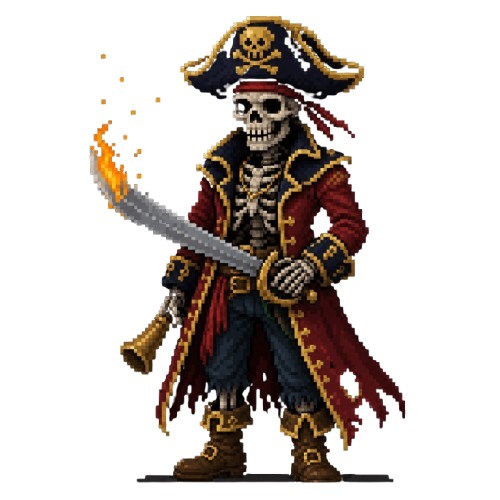
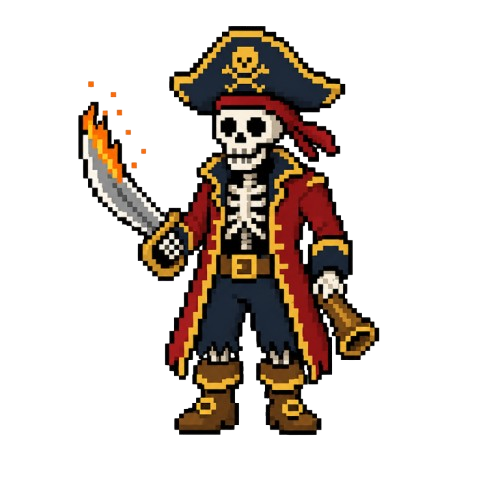
level updates

diff --git a/SeaBound/lvl3.py b/SeaBound/lvl3.py
@@ -64,6 +64,11 @@ HARPOON_SPEED = 10
 # How many HP the boss has
 BOSS_MAX_HP = 8
 
+# How many frames between each pirate walk animation frame swap.
+# 12 frames at 60fps = roughly 5 steps per second.
+# Lower this number to make the animation faster, raise it to slow it down.
+PIRATE_ANIM_SPEED = 12
+
 # Set to True to see collision boxes drawn on screen (useful for testing)
 # Set to False for normal play
 SHOW_HITBOXES = False
@@ -191,10 +196,25 @@ sword_swing_left = []
 for frame in sword_swing_right:
     sword_swing_left.append(pygame.transform.flip(frame, True, False))
 
-# Pirate
-pirate_img      = pygame.image.load(join(IMAGES_DIR, "pirate.png")).convert_alpha()
-pirate_img      = pygame.transform.scale(pirate_img, (150, 120))
-pirate_img_left = pygame.transform.flip(pirate_img, True, False)   # pre-flipped for left-side pirates
+# Pirate — two walking frames for the animation
+# Frame 0 = skeleton.png     (default / standing pose)
+# Frame 1 = skeletonwalking 1.png  (mid-stride pose)
+# Both are scaled to the same size as the original pirate sprite (150x120)
+# so nothing else in the game changes.
+pirate_walk_frame0 = pygame.image.load(join(IMAGES_DIR, "skeleton.png")).convert_alpha()
+pirate_walk_frame0 = pygame.transform.scale(pirate_walk_frame0, (150, 120))
+
+pirate_walk_frame1 = pygame.image.load(join(IMAGES_DIR, "skeletonwalking 1.png")).convert_alpha()
+pirate_walk_frame1 = pygame.transform.scale(pirate_walk_frame1, (150, 120))
+
+# Pre-flip both frames for left-side pirates (they face the other way)
+pirate_walk_frame0_left = pygame.transform.flip(pirate_walk_frame0, True, False)
+pirate_walk_frame1_left = pygame.transform.flip(pirate_walk_frame1, True, False)
+
+# Keep pirate_img and pirate_img_left pointing at frame 0 so any other
+# code that still references them continues to work unchanged.
+pirate_img      = pirate_walk_frame0
+pirate_img_left = pirate_walk_frame0_left
 
 # Heart collectable
 heart_img = pygame.image.load(join(IMAGES_DIR, "heart bubble.png")).convert_alpha()
@@ -315,9 +335,12 @@ def load_sound(filename):
 sound_footstep    = load_sound("footstep.wav")      # plays while Jerry walks
 sound_sword_swing = load_sound("sword_swing.wav")   # when SPACE is pressed
 sound_sword_hit   = load_sound("sword_hit.wav")     # sword hits a pirate/boss
-sound_shoot       = load_sound("shoot.wav")         # when X is pressed
 sound_bullet_hit  = load_sound("bullet_hit.wav")    # bullet hits an enemy
 sound_player_hit  = load_sound("player_hit.wav")    # Jerry takes damage
+
+# Harpoon / gun fired — loaded from the exact path provided
+# Uses load_sound() so the game keeps running even if the file is missing
+sound_shoot = load_sound("gun_shot.mp3")   # SeaBound/Audio/gun_shot.mp3
 
 # Pirate death sound
 _pirate_die_path  = join(AUDIO_DIR, "pirate die.ogg")
@@ -605,13 +628,12 @@ class Player:
 
 class Pirate:
 
-    def __init__(self, x, y, from_left=False):
+    def __init__(self, x, y, from_left=False, wave=1):
         self.x = x
         self.y = y
 
         self.width  = 150
         self.height = 120
-        self.speed  = PIRATE_SPEED
 
         # from_left = True  means this pirate came from the LEFT edge
         # from_left = False means it came from the RIGHT edge (original behaviour)
@@ -623,13 +645,66 @@ class Pirate:
         else:
             self.image = pirate_img        # faces LEFT  (toward screen centre)
 
+        # ---------------------------------------------------------
+        # HP SYSTEM
+        # ---------------------------------------------------------
+        # Wave 1: all pirates have 1 HP (one hit = dead).
+        # Wave 2+: some pirates are "tough" with 2 HP.
+        #   The chance of being tough increases each wave:
+        #     Wave 2: 30% tough
+        #     Wave 3: 50% tough
+        #     Wave 4+: 70% tough
+        # A tough pirate takes TWO hits to kill.
+        # ---------------------------------------------------------
+        if wave >= 2:
+            # Calculate chance of being tough based on wave number
+            tough_chance = min(0.30 + (wave - 2) * 0.20, 0.70)
+            self.is_tough = random.random() < tough_chance
+        else:
+            self.is_tough = False
+
+        self.hp = 2 if self.is_tough else 1
+
+        # ---------------------------------------------------------
+        # SPEED
+        # ---------------------------------------------------------
+        # Base speed is PIRATE_SPEED.
+        # Tough pirates are always slightly faster.
+        # Additionally, ~30% of wave 2+ pirates get a random speed
+        # boost regardless of toughness.
+        # ---------------------------------------------------------
+        base_speed = PIRATE_SPEED
+
+        if self.is_tough:
+            base_speed += 0.6    # tough pirates are noticeably faster
+
+        if wave >= 2 and random.random() < 0.30:
+            base_speed += random.uniform(0.3, 0.8)   # random bonus for some pirates
+
+        self.speed = base_speed
+
         # Natural movement — each pirate steers toward a point that
         # drifts around Jerry rather than heading straight at him.
-        # offset_x/y define how far from Jerry's position the target is.
         self.offset_x      = random.randint(-120, 120)
         self.offset_y      = random.randint(-80,   80)
         self.wander_timer  = 0
         self.wander_change = random.randint(50, 130)
+
+        # Sword damage guard — prevents a single sword swing hitting
+        # the same pirate twice on consecutive frames.
+        self.sword_hit_this_swing = False
+
+        # ---------------------------------------------------------
+        # WALKING ANIMATION
+        # ---------------------------------------------------------
+        # anim_frame is 0 or 1 — which of the two walk images to show.
+        # anim_timer counts up every frame the pirate is moving.
+        # When anim_timer reaches PIRATE_ANIM_SPEED it flips the frame
+        # and resets.  Change PIRATE_ANIM_SPEED to adjust the speed:
+        #   lower number  = faster animation
+        #   higher number = slower animation
+        self.anim_frame = 0   # start on frame 0 (default pose)
+        self.anim_timer = 0   # counts frames since the last frame swap
 
     def move_towards_player(self, player):
         # =======================================================
@@ -675,14 +750,78 @@ class Pirate:
             # Occasionally speed up or slow down
             self.speed = PIRATE_SPEED + random.uniform(-0.5, 0.8)
 
+        # ---------------------------------------------------------
+        # WALK ANIMATION TIMER
+        # ---------------------------------------------------------
+        # Count up every frame the pirate is moving.
+        # When the timer hits PIRATE_ANIM_SPEED, swap the frame.
+        self.anim_timer += 1
+        if self.anim_timer >= PIRATE_ANIM_SPEED:
+            self.anim_timer = 0
+            # Toggle between frame 0 and frame 1
+            if self.anim_frame == 0:
+                self.anim_frame = 1
+            else:
+                self.anim_frame = 0
+
         if self.y < TOP_BARRIER:
             self.y = TOP_BARRIER
         if self.y > HEIGHT - self.height:
             self.y = HEIGHT - self.height
 
+    def take_damage(self, particles_list):
+        """
+        Reduce HP by 1.  Spawns a small hit flash.
+        Returns True if the pirate is now dead (HP reached 0).
+        """
+        self.hp -= 1
+
+        # Small orange flash where the pirate was hit
+        cx = self.x + self.width  // 2
+        cy = self.y + self.height // 2
+        for i in range(8):
+            particles_list.append(Particle(cx, cy))
+
+        return self.hp <= 0
+
     def draw(self):
-        # self.image was set in __init__ — no flipping needed here
-        screen.blit(self.image, (self.x, self.y))
+        # Pick the correct walk frame based on anim_frame (0 or 1)
+        # and which side the pirate came from (left or right).
+        if self.from_left:
+            # Left-side pirates face right — use the left-flipped versions
+            if self.anim_frame == 0:
+                image = pirate_walk_frame0_left
+            else:
+                image = pirate_walk_frame1_left
+        else:
+            # Right-side pirates face left — use the normal versions
+            if self.anim_frame == 0:
+                image = pirate_walk_frame0
+            else:
+                image = pirate_walk_frame1
+
+        screen.blit(image, (self.x, self.y))
+
+        # ---------------------------------------------------------
+        # SMALL HP BAR — only drawn for tough (2 HP) pirates
+        # ---------------------------------------------------------
+        # We only show the bar when the pirate started with 2 HP.
+        # Bar is small (50px wide, 5px tall) and sits just above
+        # the pirate sprite so it doesn't clutter normal fights.
+        # ---------------------------------------------------------
+        if self.is_tough:
+            bar_w = 50
+            bar_h = 5
+            bar_x = int(self.x + self.width // 2 - bar_w // 2)
+            bar_y = int(self.y - 10)
+
+            # Dark background track
+            pygame.draw.rect(screen, (60, 0, 0), (bar_x, bar_y, bar_w, bar_h))
+
+            # Fill — shrinks from full to half as HP drops from 2 to 1
+            fill_w = int(bar_w * (self.hp / 2))
+            bar_colour = (220, 60, 0) if self.hp == 1 else (220, 160, 0)
+            pygame.draw.rect(screen, bar_colour, (bar_x, bar_y, fill_w, bar_h))
 
         if SHOW_HITBOXES:
             pygame.draw.rect(screen, RED, self.get_rect(), 2)
@@ -1573,7 +1712,7 @@ def run_game():
                 if abs(spawn_y - player.y) < 60:
                     spawn_y += 80
 
-                new_pirate = Pirate(spawn_x, spawn_y, from_left=from_left)
+                new_pirate = Pirate(spawn_x, spawn_y, from_left=from_left, wave=wave)
                 pirates.append(new_pirate)
                 pirates_spawned += 1
 
@@ -1603,20 +1742,19 @@ def run_game():
             for pirate in pirates[:]:
                 if harpoon.get_rect().colliderect(pirate.get_rect()):
 
-                    # Spawn sparks where the pirate was
-                    cx = pirate.x + pirate.width  // 2
-                    cy = pirate.y + pirate.height // 2
-                    for i in range(18):
-                        particles.append(Particle(cx, cy))
+                    play_sound(sound_bullet_hit)    # bullet connects
 
-                    pirates.remove(pirate)
+                    # take_damage() returns True when the pirate is dead
+                    is_dead = pirate.take_damage(particles)
+
+                    if is_dead:
+                        pirates.remove(pirate)
+                        play_sound(sound_enemy_death)
+                        score += 10
 
                     if harpoon in harpoons:
                         harpoons.remove(harpoon)
 
-                    play_sound(sound_bullet_hit)    # bullet connects
-                    play_sound(sound_enemy_death)   # pirate dies
-                    score += 10
                     break   # one harpoon can only hit one pirate
 
         # =====================================================
@@ -1645,18 +1783,26 @@ def run_game():
 
         sword_rect = player.get_sword_rect()
 
+        # Reset the sword-hit guard at the START of each new swing
+        # (attack_timer == 24 is the very first tick of a swing)
+        if player.attack_timer == 24:
+            for pirate in pirates:
+                pirate.sword_hit_this_swing = False
+
         for pirate in pirates[:]:
             if sword_rect.colliderect(pirate.get_rect()):
+                # Only deal damage once per swing per pirate
+                if not pirate.sword_hit_this_swing:
+                    pirate.sword_hit_this_swing = True
 
-                cx = pirate.x + pirate.width  // 2
-                cy = pirate.y + pirate.height // 2
-                for i in range(18):
-                    particles.append(Particle(cx, cy))
+                    play_sound(sound_sword_hit)
 
-                pirates.remove(pirate)
-                play_sound(sound_sword_hit)     # sword connects with pirate
-                play_sound(sound_enemy_death)   # pirate dies
-                score += 10
+                    is_dead = pirate.take_damage(particles)
+
+                    if is_dead:
+                        pirates.remove(pirate)
+                        play_sound(sound_enemy_death)
+                        score += 10
 
         # =====================================================
         # COLLISIONS - SWORD vs BOSS
